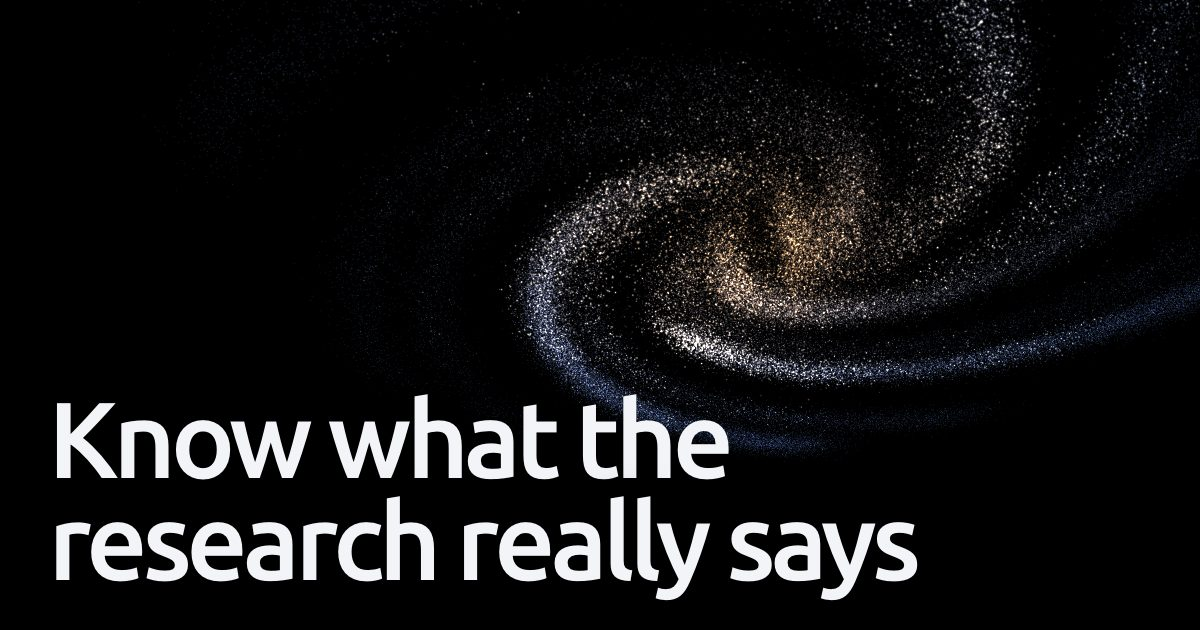
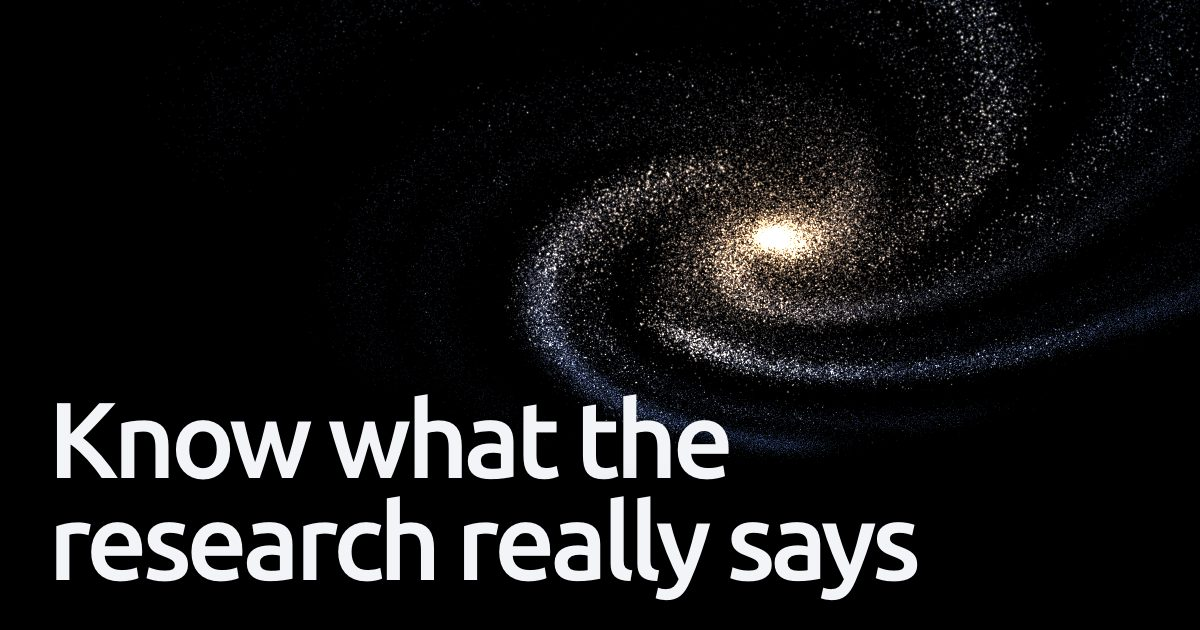
fix(marketing): the galaxy core is a bulge instead of a streak

Changed region(s): [[0.4317, 0.0, 1.0, 0.7238], [0.9558, 0.2413, 0.9867, 0.2714]]

diff --git a/marketing/src/scripts/field.js b/marketing/src/scripts/field.js
@@ -64,11 +64,11 @@ export function readPapers(field, count) {
   const core = (i) => i % 7 === 0;
   const bright = (i) => 0.2 + Math.pow(cit[i] / 255, 2.4) * 3.2;
   const galaxy = (o) => { const r = mulberry(11); for (let i = 0; i < count; i++) {
-    if (core(i)) { const a = r() * TAU, rr = Math.pow(r(), 1.8) * 0.42 + 0.004; o[i * 4] = Math.cos(a) * rr; o[i * 4 + 1] = Math.sin(a) * rr; o[i * 4 + 2] = gauss(r) * (0.09 - rr * 0.16); o[i * 4 + 3] = 0.3 + bright(i) * 0.5; seedA[i * 2 + 1] = 1 - rr; continue; }
+    if (core(i)) { const a = r() * TAU, rr = Math.pow(r(), 1.8) * 0.42 + 0.004; o[i * 4] = Math.cos(a) * rr; o[i * 4 + 1] = Math.sin(a) * rr; o[i * 4 + 2] = gauss(r) * rr * 0.62; o[i * 4 + 3] = 0.3 + bright(i) * 0.5; seedA[i * 2 + 1] = 1 - rr; continue; }
     const halo = reg[i] === 10, R = 0.03 + 1.9 * Math.pow(rank[i], 0.92), arm = (reg[i] % 5) / 5 * TAU + (reg[i] >= 5 ? 0.42 : 0);
     const spread = 0.055 + 0.42 * Math.exp(-R * 2.4); const th = (halo ? r() * TAU : arm + gauss(r) * spread) + 2.5 * Math.log(1 + 3 * R); const bulge = Math.exp(-R * 4.2);
     const rr = R * (1 + gauss(r) * 0.035);
-    o[i * 4] = Math.cos(th) * rr; o[i * 4 + 1] = Math.sin(th) * rr; o[i * 4 + 2] = gauss(r) * (0.014 + bulge * 0.2); o[i * 4 + 3] = bright(i) * (halo ? 0.4 : 1);
+    o[i * 4] = Math.cos(th) * rr; o[i * 4 + 1] = Math.sin(th) * rr; o[i * 4 + 2] = gauss(r) * (0.014 + bulge * 0.2 * Math.min(1, R * 2.5)); o[i * 4 + 3] = bright(i) * (halo ? 0.4 : 1);
   } };
   return { seedA, bright, galaxy };
 }
